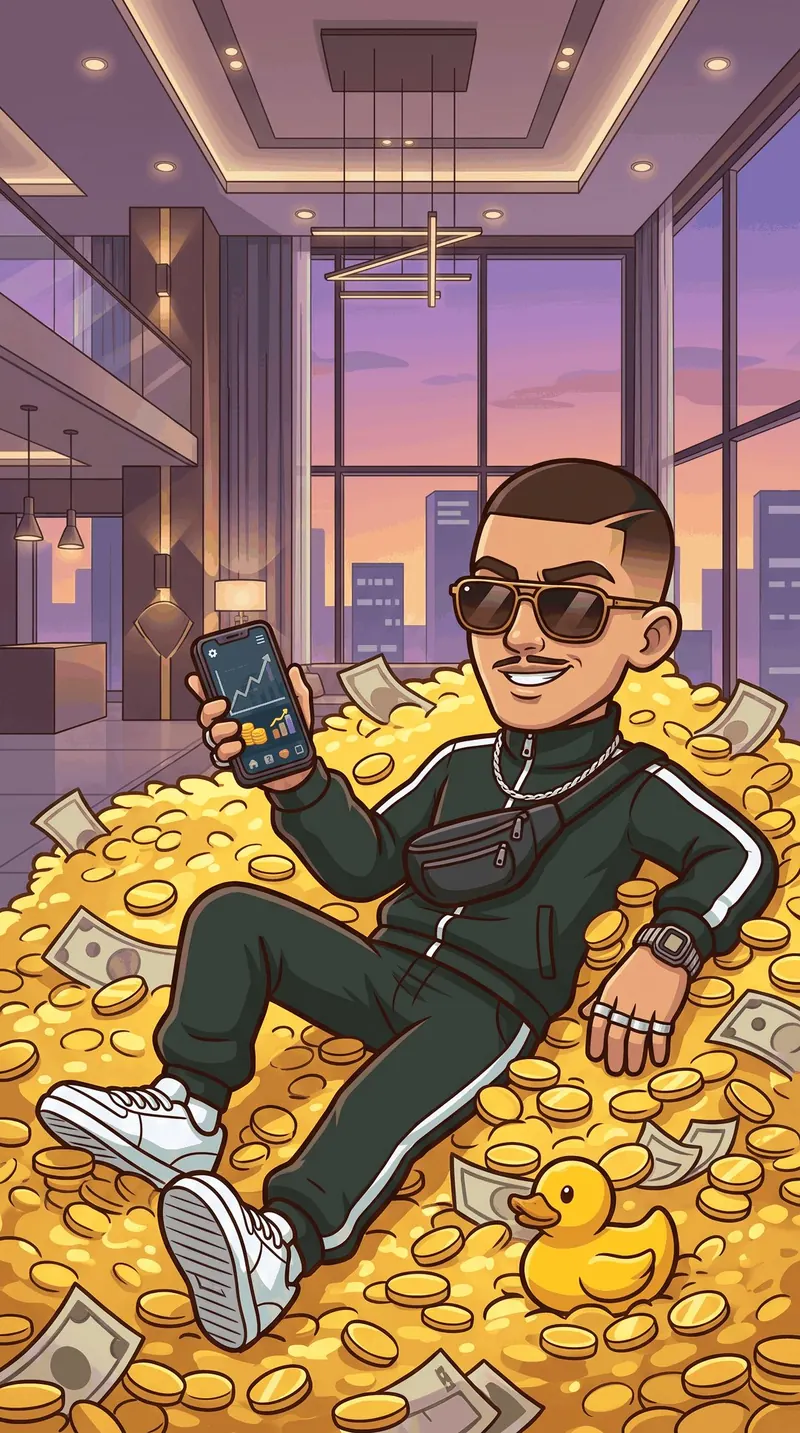
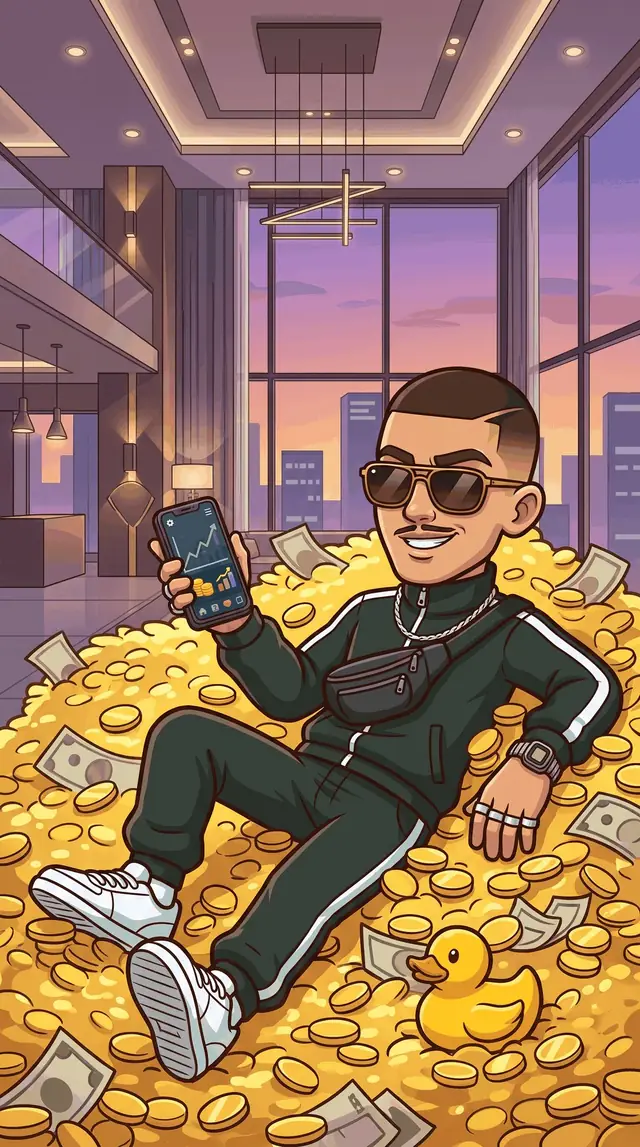
Vitrine : fonds des bannières chargés à l'approche de l'écran, image principale plus légère, contraste du 18+

diff --git a/landing/index.html b/landing/index.html
@@ -54,7 +54,7 @@ main { position: relative; min-height: 100vh; min-height: 100dvh; display: flex;
 .cast img { height: 100%; width: auto; margin: 0 -10px; filter: drop-shadow(0 6px 10px rgba(0,0,0,.5)); }
 .cast img:nth-child(4) { height: 112%; z-index: 2; }
 .age { margin-top: 26px; display: inline-flex; align-items: center; gap: 8px; padding: 6px 14px; border-radius: 999px; background: rgba(0,0,0,.35); font-size: 13px; color: #e8dcff; }
-.age b { display: inline-grid; place-items: center; width: 30px; height: 30px; border-radius: 50%; background: #e8483a; border: 2px solid #fff; font: 400 13px 'Lilita One', sans-serif; color: #fff; }
+.age b { display: inline-grid; place-items: center; width: 30px; height: 30px; border-radius: 50%; background: #b8261a; border: 2px solid #fff; font: 400 13px 'Lilita One', sans-serif; color: #fff; }
 footer { margin-top: 18px; font-size: 12px; color: #b9a8d9; }
 footer a { color: #fff; }
 .blk { width: 100%; max-width: 980px; margin: 34px auto 0; text-align: left; }
@@ -159,7 +159,7 @@ footer a { color: #fff; }
   <section class="news" id="actus" aria-label="Actualités">
     <h2>Actualités</h2>
     <div class="car"><div class="slides">
-<article class="bn"><div class="bn-card" style="background-image:url(/assets/lp/o/club-piste.webp);background-position:50% 35%"><div class="bn-txt"><span class="chip new">Nouveau</span><b>Le Club ouvre ses portes</b><p>Piste, bar, carré VIP, DJ et toilettes louches : des dialogues qui rapportent gros… ou te coûtent cher.</p><a class="bn-link" href="/actus/club-biff-city">En savoir plus</a></div></div><div class="bn-popw"><img class="bn-pop" src="/assets/lp/o/clubp-lea.webp" alt="" loading="lazy" style="--hf:3.3898;--cf:0.4407"></div></article><article class="bn"><div class="bn-card" style="background-image:url(/assets/lp/o/bg-city-neon.webp);background-position:50% 40%"><div class="bn-txt"><span class="chip new">Nouveau</span><b>Le Lucky Palace relooké</b><p>Cerise à lunettes, citron casquette, 7 en chaîne en or : la machine à sous fait peau neuve.</p><a class="bn-link" href="/actus/machine-a-sous-gratuite">En savoir plus</a></div></div><div class="bn-popw"><img class="bn-pop" src="/assets/lp/o/skin-flambeur.webp" alt="" loading="lazy" style="--hf:4.5455;--cf:0.0455"></div></article><article class="bn"><div class="bn-card" style="background-image:url(/assets/lp/o/club-vip.webp);background-position:50% 40%"><div class="bn-txt"><span class="chip new">Nouveau</span><b>10 personnages au Club</b><p>Kenza, Léa, DJ Nyx, le Baron… Chaque soirée, qui est là change au hasard.</p><a class="bn-link" href="/actus/personnages-du-club">En savoir plus</a></div></div><div class="bn-popw"><img class="bn-pop" src="/assets/lp/o/clubp-dj.webp" alt="" loading="lazy" style="--hf:4.0816;--cf:0.3673"></div></article><article class="bn"><div class="bn-card" style="background-image:url(/assets/lp/o/bg-city-or.webp);background-position:50% 45%"><div class="bn-txt"><span class="chip live">Bêta ouverte</span><b>Joue avant tout le monde</b><p>Gratuit, dans ton navigateur. Ton avis compte : bouton « Donner mon avis » dans les Réglages.</p><a class="bn-link" href="/actus/jeu-paris-sportifs-fictifs">En savoir plus</a></div></div><div class="bn-popw"><img class="bn-pop" src="/assets/lp/o/skin-survet.webp" alt="" loading="lazy" style="--hf:4.0816;--cf:0.0204"></div></article>
+<article class="bn"><div class="bn-card" data-bg="/assets/lp/o/club-piste.webp" style="background-position:50% 35%"><div class="bn-txt"><span class="chip new">Nouveau</span><b>Le Club ouvre ses portes</b><p>Piste, bar, carré VIP, DJ et toilettes louches : des dialogues qui rapportent gros… ou te coûtent cher.</p><a class="bn-link" href="/actus/club-biff-city">En savoir plus</a></div></div><div class="bn-popw"><img class="bn-pop" src="/assets/lp/o/clubp-lea.webp" alt="" loading="lazy" style="--hf:3.3898;--cf:0.4407"></div></article><article class="bn"><div class="bn-card" data-bg="/assets/lp/o/bg-city-neon.webp" style="background-position:50% 40%"><div class="bn-txt"><span class="chip new">Nouveau</span><b>Le Lucky Palace relooké</b><p>Cerise à lunettes, citron casquette, 7 en chaîne en or : la machine à sous fait peau neuve.</p><a class="bn-link" href="/actus/machine-a-sous-gratuite">En savoir plus</a></div></div><div class="bn-popw"><img class="bn-pop" src="/assets/lp/o/skin-flambeur.webp" alt="" loading="lazy" style="--hf:4.5455;--cf:0.0455"></div></article><article class="bn"><div class="bn-card" data-bg="/assets/lp/o/club-vip.webp" style="background-position:50% 40%"><div class="bn-txt"><span class="chip new">Nouveau</span><b>10 personnages au Club</b><p>Kenza, Léa, DJ Nyx, le Baron… Chaque soirée, qui est là change au hasard.</p><a class="bn-link" href="/actus/personnages-du-club">En savoir plus</a></div></div><div class="bn-popw"><img class="bn-pop" src="/assets/lp/o/clubp-dj.webp" alt="" loading="lazy" style="--hf:4.0816;--cf:0.3673"></div></article><article class="bn"><div class="bn-card" data-bg="/assets/lp/o/bg-city-or.webp" style="background-position:50% 45%"><div class="bn-txt"><span class="chip live">Bêta ouverte</span><b>Joue avant tout le monde</b><p>Gratuit, dans ton navigateur. Ton avis compte : bouton « Donner mon avis » dans les Réglages.</p><a class="bn-link" href="/actus/jeu-paris-sportifs-fictifs">En savoir plus</a></div></div><div class="bn-popw"><img class="bn-pop" src="/assets/lp/o/skin-survet.webp" alt="" loading="lazy" style="--hf:4.0816;--cf:0.0204"></div></article>
     </div><div class="dots"></div></div>
   </section>
   <section class="blk" id="bientot">
@@ -177,6 +177,15 @@ footer a { color: #fff; }
   <footer>© Lucid Studio · <a href="mailto:contact@lucidstudio.fr">contact@lucidstudio.fr</a></footer>
 </main>
 <a class="sticky-cta" id="sticky-cta" href="https://game.biffcity.fr/" data-lp="beta-sticky" aria-hidden="true" tabindex="-1">Jouer à la bêta</a>
+<script>
+// fonds des bannières : chargés seulement à l'approche de l'écran (l'image principale passe d'abord)
+(function () {
+  var els = document.querySelectorAll('[data-bg]'), set = function (e) { e.style.backgroundImage = 'url(' + e.dataset.bg + ')'; e.removeAttribute('data-bg'); };
+  if (!('IntersectionObserver' in window)) return els.forEach(set);
+  var io = new IntersectionObserver(function (es) { es.forEach(function (e) { if (e.isIntersecting) { set(e.target); io.unobserve(e.target); } }); }, { rootMargin: '300px 600px' });
+  els.forEach(function (e) { io.observe(e); });
+})();
+</script>
 <script>
 // mobile : bouton « Jouer » qui suit le défilement, caché quand un autre bouton est déjà visible
 (function () {

diff --git a/landing/render.js b/landing/render.js
@@ -50,7 +50,7 @@ function render(content) {
   const c = clean(content || defaults());
   const val = k => k.split('.').reduce((o, p) => o == null ? '' : o[p], c), art = sl => sl && c.articles.some(a => a.slug === sl);
   const feats = c.feats.map(f => `    <div class="feat"><img src="${esc(opt(f.img))}" alt="" width="64" height="64"><b>${esc(f.title)}</b><small>${esc(f.text)}</small></div>`).join('\n');
-  const actus = c.actus.items.map(x => `<article class="bn"><div class="bn-card" style="background-image:url(${esc(opt(x.bg))});background-position:${esc(x.bgPos)}"><div class="bn-txt">${x.chip ? `<span class="chip ${x.color}">${esc(x.chip)}</span>` : ''}<b>${esc(x.title)}</b><p>${esc(x.text)}</p>${art(x.link) ? `<a class="bn-link" href="/actus/${x.link}">${esc(x.btn)}</a>` : ''}</div></div>${x.pop ? popImg(x.pop) : ''}</article>`).join('');
+  const actus = c.actus.items.map(x => `<article class="bn"><div class="bn-card" data-bg="${esc(opt(x.bg))}" style="background-position:${esc(x.bgPos)}"><div class="bn-txt">${x.chip ? `<span class="chip ${x.color}">${esc(x.chip)}</span>` : ''}<b>${esc(x.title)}</b><p>${esc(x.text)}</p>${art(x.link) ? `<a class="bn-link" href="/actus/${x.link}">${esc(x.btn)}</a>` : ''}</div></div>${x.pop ? popImg(x.pop) : ''}</article>`).join('');
   const cards = c.bientot.items.map(x => `      <article class="nc"><div class="ni"><img src="${esc(opt(x.img))}" loading="lazy" alt="${esc(x.alt)}" style="object-position:${esc(x.imgPos)}"></div><div class="nt">${x.chip ? `<span class="chip ${x.color}"${x.start && x.end ? ` data-cd="${esc(x.start)}" data-end="${esc(x.end)}"` : ''}>${esc(x.chip)}</span>` : ''}<b>${esc(x.title)}</b><p>${esc(x.text)}</p>${art(x.link) ? `<a class="nc-link" href="/actus/${x.link}">${esc(x.btn)}</a>` : ''}</div></article>`).join('\n');
   const shots = c.jeu.items.map(x => `      <a class="shot" href="${art(x.link) ? '/actus/' + x.link : 'https://game.biffcity.fr/'}"${art(x.link) ? '' : ' data-lp="beta-jeu"'}><figure><img src="${esc(x.img)}" alt="${esc(x.alt)}" loading="lazy" width="540" height="1169"></figure><div><b>${esc(x.title)}</b><p>${esc(x.text)}</p>${art(x.link) ? '<span class="go">En savoir plus ›</span>' : ''}</div></a>`).join('\n');
   return fs.readFileSync(TPL, 'utf8')

diff --git a/landing/template.html b/landing/template.html
@@ -54,7 +54,7 @@ main { position: relative; min-height: 100vh; min-height: 100dvh; display: flex;
 .cast img { height: 100%; width: auto; margin: 0 -10px; filter: drop-shadow(0 6px 10px rgba(0,0,0,.5)); }
 .cast img:nth-child(4) { height: 112%; z-index: 2; }
 .age { margin-top: 26px; display: inline-flex; align-items: center; gap: 8px; padding: 6px 14px; border-radius: 999px; background: rgba(0,0,0,.35); font-size: 13px; color: #e8dcff; }
-.age b { display: inline-grid; place-items: center; width: 30px; height: 30px; border-radius: 50%; background: #e8483a; border: 2px solid #fff; font: 400 13px 'Lilita One', sans-serif; color: #fff; }
+.age b { display: inline-grid; place-items: center; width: 30px; height: 30px; border-radius: 50%; background: #b8261a; border: 2px solid #fff; font: 400 13px 'Lilita One', sans-serif; color: #fff; }
 footer { margin-top: 18px; font-size: 12px; color: #b9a8d9; }
 footer a { color: #fff; }
 .blk { width: 100%; max-width: 980px; margin: 34px auto 0; text-align: left; }
@@ -169,6 +169,15 @@ footer a { color: #fff; }
   <footer>© Lucid Studio · <a href="mailto:contact@lucidstudio.fr">contact@lucidstudio.fr</a></footer>
 </main>
 <a class="sticky-cta" id="sticky-cta" href="https://game.biffcity.fr/" data-lp="beta-sticky" aria-hidden="true" tabindex="-1">{{hero.cta}}</a>
+<script>
+// fonds des bannières : chargés seulement à l'approche de l'écran (l'image principale passe d'abord)
+(function () {
+  var els = document.querySelectorAll('[data-bg]'), set = function (e) { e.style.backgroundImage = 'url(' + e.dataset.bg + ')'; e.removeAttribute('data-bg'); };
+  if (!('IntersectionObserver' in window)) return els.forEach(set);
+  var io = new IntersectionObserver(function (es) { es.forEach(function (e) { if (e.isIntersecting) { set(e.target); io.unobserve(e.target); } }); }, { rootMargin: '300px 600px' });
+  els.forEach(function (e) { io.observe(e); });
+})();
+</script>
 <script>
 // mobile : bouton « Jouer » qui suit le défilement, caché quand un autre bouton est déjà visible
 (function () {
